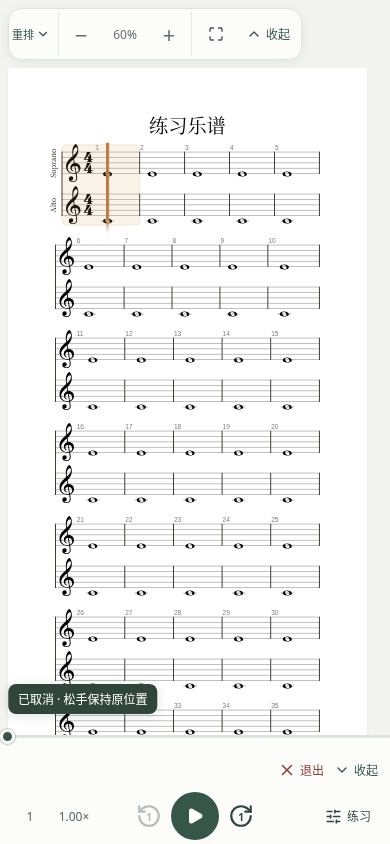
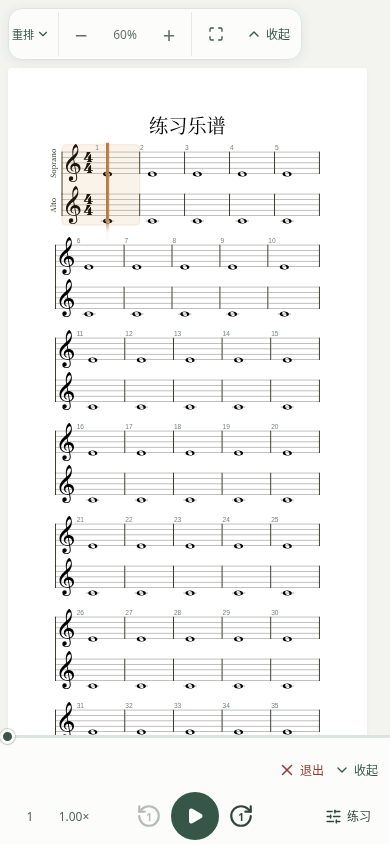
移除进度拖动的额外说明文字

Changed region(s): [[0.0, 0.8009, 0.4, 0.8626]]

diff --git a/src/client/playback/playback-timeline.tsx b/src/client/playback/playback-timeline.tsx
@@ -2,21 +2,20 @@ import { useCallback, useEffect, useLayoutEffect, useRef, useState, type CSSProp
 export type Timeline = { value: number; min?: number; max: number; step?: number; disabled: boolean; label(value: number): string; seek(value: number): void; preview?(value: number | null): void };
 export function PlaybackTimeline({ timeline }: { timeline: Timeline }) {
   const [draft, setDraft] = useState<number | null>(null);
-  const [cancelled, setCancelled] = useState(false);
   const bubble = useRef<HTMLOutputElement>(null);
   const [halfWidth, setHalfWidth] = useState(72);
   const label = timeline.label(draft ?? timeline.value);
-  useLayoutEffect(() => { if (bubble.current) setHalfWidth(bubble.current.getBoundingClientRect().width / 2 + 8); }, [label, draft, cancelled]);
+  useLayoutEffect(() => { if (bubble.current) setHalfWidth(bubble.current.getBoundingClientRect().width / 2 + 8); }, [label, draft]);
   const pending = useRef<number | null>(null);
   const interaction = useRef<'pointer'|'keyboard'|'cancelled'|null>(null);
   const pointer = useRef<{ id: number; y: number } | null>(null);
   const latest = useRef(timeline);
   useEffect(() => { latest.current = timeline; }, [timeline]);
   const preview = (value: number) => { pending.current = value; setDraft(value); latest.current.preview?.(value); };
-  const cancel = useCallback(() => { if (interaction.current === null) return; pending.current = null; interaction.current = 'cancelled'; setDraft(null); setCancelled(pointer.current !== null); latest.current.preview?.(null); }, []);
+  const cancel = useCallback(() => { if (interaction.current === null) return; pending.current = null; interaction.current = 'cancelled'; setDraft(null); latest.current.preview?.(null); }, []);
   const commit = useCallback(() => {
     const value = pending.current;
-    pending.current = null; interaction.current = null; setDraft(null); setCancelled(false);
+    pending.current = null; interaction.current = null; setDraft(null);
     if (value !== null && !latest.current.disabled) latest.current.seek(value);
     else latest.current.preview?.(null);
   }, []);
@@ -27,14 +26,13 @@ export function PlaybackTimeline({ timeline }: { timeline: Timeline }) {
       move(event);
       pointer.current = null;
       if (interaction.current === 'pointer') commit();
-      else if (interaction.current === 'cancelled') setCancelled(false);
     };
     const move = (event: PointerEvent) => {
       if (pointer.current && event.pointerId === pointer.current.id && Math.abs(event.clientY - pointer.current.y) > 72 && interaction.current === 'pointer') cancel();
     };
     window.addEventListener('pointermove', move);
     window.addEventListener('pointerup', release);
-    const abort = () => { cancel(); pointer.current = null; setCancelled(false); };
+    const abort = () => { cancel(); pointer.current = null; };
     window.addEventListener('pointercancel', abort);
     window.addEventListener('blur', abort);
     return () => {
@@ -48,10 +46,10 @@ export function PlaybackTimeline({ timeline }: { timeline: Timeline }) {
   const min = timeline.min ?? 0;
   const percent = timeline.max > min ? ((draft ?? timeline.value) - min) / (timeline.max - min) * 100 : 0;
   return <div className="practice-timeline-track" style={{ '--practice-progress': `${percent}%` } as CSSProperties}>
-    {(draft !== null || cancelled) && <output ref={bubble} className="practice-timeline-preview" style={{ left: `clamp(${halfWidth}px, calc(${percent}% + ${10 - percent * .2}px), calc(100% - ${halfWidth}px))` }}>{cancelled ? '已取消 · 松手保持原位置' : `${label} · 上下移出 / Esc 取消`}</output>}
+    {draft !== null && <output ref={bubble} className="practice-timeline-preview" style={{ left: `clamp(${halfWidth}px, calc(${percent}% + ${10 - percent * .2}px), calc(100% - ${halfWidth}px))` }}>{label}</output>}
     <input className="practice-timeline" aria-label="播放进度" aria-valuetext={label}
       type="range" min={min} max={timeline.max} step={timeline.step ?? 1} disabled={timeline.disabled} value={draft ?? timeline.value}
-      onPointerDown={event => { if (pointer.current && interaction.current !== 'cancelled') return; pointer.current = { id: event.pointerId, y: event.clientY }; setCancelled(false); interaction.current = 'pointer'; preview(timeline.value); }}
+      onPointerDown={event => { if (pointer.current && interaction.current !== 'cancelled') return; pointer.current = { id: event.pointerId, y: event.clientY }; interaction.current = 'pointer'; preview(timeline.value); }}
       onKeyDown={event => { if (['ArrowLeft','ArrowRight','ArrowUp','ArrowDown','Home','End','PageUp','PageDown'].includes(event.key) && !pointer.current) interaction.current = 'keyboard'; if (event.key === 'Escape') cancel(); }}
       onChange={event => { const value = Number(event.target.value); if (interaction.current === null) timeline.seek(value); else if (interaction.current !== 'cancelled') preview(value); }}
       onKeyUp={() => { if (interaction.current === 'keyboard') commit(); }} onBlur={() => { if (interaction.current === 'keyboard') commit(); }} />

diff --git a/docs/verification/xml-scrub.md b/docs/verification/xml-scrub.md
@@ -10,7 +10,7 @@
 
 [W3C Dragging Movements](https://www.w3.org/WAI/WCAG22/Understanding/dragging-movements.html)强调保留不依赖拖动的单指针操作，因此继续保留「定位小节」弹层与前后小节按钮。
 
-比较了严格离开滑块即取消、额外取消按钮、垂直移出后取消。严格边界容易误触；额外按钮需要在单指按住时另作操作。因此保留水平拖动和原生 range 的键盘／辅助技术行为，**从按下位置垂直移出超过 72 CSS px，即取消本次手势**。72px 是本产品为手指抖动保留余量的选择，并非平台标准。拖动气泡显示「上下移出 / Esc 取消」，取消后显示「已取消 · 松手保持原位置」。取消是本次手势的最终状态，移回、继续拖动和松手均不会重新确认；重新按下可以开始新手势。
+比较了严格离开滑块即取消、额外取消按钮、垂直移出后取消。严格边界容易误触；额外按钮需要在单指按住时另作操作。因此保留水平拖动和原生 range 的键盘／辅助技术行为，**从按下位置垂直移出超过 72 CSS px，即取消本次手势**。72px 是本产品为手指抖动保留余量的选择，并非平台标准。拖动气泡只显示目标小节；取消后气泡和预览高亮消失，不增加操作说明文字。取消是本次手势的最终状态，移回、继续拖动和松手均不会重新确认；重新按下可以开始新手势。
 
 ## 最终行为
 
@@ -28,7 +28,7 @@
 | --- | --- |
 | ![修改前](xml-scrub/before-chromium-preview.png) | ![修改后](xml-scrub/after-chromium-preview.png) |
 
-![垂直移出后恢复原谱面，提示本次已取消](xml-scrub/after-chromium-cancel.png)
+![垂直移出后恢复原谱面，预览气泡消失](xml-scrub/after-chromium-cancel.png)
 
 截图无法证明松手是否提交。浏览器验证实际执行「按住 → 横移到目标 → 上移 100px → 移回进度条 → 松手」，并检查播放进度仍为原值、谱面滚动位置恢复、引擎 `alphaSynth.setTickPosition` 命令数组为空。另执行正常确认，检查仅有一次目标寻址；播放中确认与取消均继续播放。这样同时验证界面和实际引擎动作。
 
